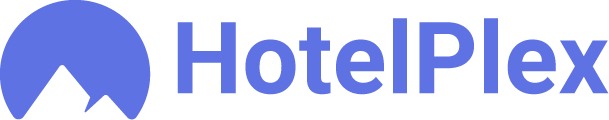
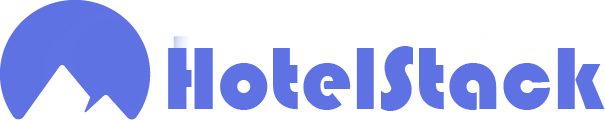
Brand name changed

diff --git a/public/js/app.js b/public/js/app.js
@@ -1899,6 +1899,32 @@ module.exports = {
 
 /***/ }),
 
+/***/ "./node_modules/babel-loader/lib/index.js?!./node_modules/vue-loader/lib/index.js?!./resources/js/components/Reservations.vue?vue&type=script&lang=js&":
+/*!***********************************************************************************************************************************************************************!*\
+  !*** ./node_modules/babel-loader/lib??ref--4-0!./node_modules/vue-loader/lib??vue-loader-options!./resources/js/components/Reservations.vue?vue&type=script&lang=js& ***!
+  \***********************************************************************************************************************************************************************/
+/*! exports provided: default */
+/***/ (function(module, __webpack_exports__, __webpack_require__) {
+
+"use strict";
+__webpack_require__.r(__webpack_exports__);
+//
+//
+//
+//
+//
+//
+/* harmony default export */ __webpack_exports__["default"] = ({
+  data: {
+    guest: "Vinyas"
+  },
+  mounted: function mounted() {
+    console.log("Component mounted.");
+  }
+});
+
+/***/ }),
+
 /***/ "./node_modules/bootstrap/dist/js/bootstrap.js":
 /*!*****************************************************!*\
   !*** ./node_modules/bootstrap/dist/js/bootstrap.js ***!
@@ -37254,6 +37280,137 @@ exports.clearImmediate = (typeof self !== "undefined" && self.clearImmediate) ||
 
 /***/ }),
 
+/***/ "./node_modules/vue-loader/lib/loaders/templateLoader.js?!./node_modules/vue-loader/lib/index.js?!./resources/js/components/Reservations.vue?vue&type=template&id=073d82dc&":
+/*!***************************************************************************************************************************************************************************************************************!*\
+  !*** ./node_modules/vue-loader/lib/loaders/templateLoader.js??vue-loader-options!./node_modules/vue-loader/lib??vue-loader-options!./resources/js/components/Reservations.vue?vue&type=template&id=073d82dc& ***!
+  \***************************************************************************************************************************************************************************************************************/
+/*! exports provided: render, staticRenderFns */
+/***/ (function(module, __webpack_exports__, __webpack_require__) {
+
+"use strict";
+__webpack_require__.r(__webpack_exports__);
+/* harmony export (binding) */ __webpack_require__.d(__webpack_exports__, "render", function() { return render; });
+/* harmony export (binding) */ __webpack_require__.d(__webpack_exports__, "staticRenderFns", function() { return staticRenderFns; });
+var render = function() {
+  var _vm = this
+  var _h = _vm.$createElement
+  var _c = _vm._self._c || _h
+  return _c("div", [_c("h2", [_vm._v(_vm._s(_vm.guest))])])
+}
+var staticRenderFns = []
+render._withStripped = true
+
+
+
+/***/ }),
+
+/***/ "./node_modules/vue-loader/lib/runtime/componentNormalizer.js":
+/*!********************************************************************!*\
+  !*** ./node_modules/vue-loader/lib/runtime/componentNormalizer.js ***!
+  \********************************************************************/
+/*! exports provided: default */
+/***/ (function(module, __webpack_exports__, __webpack_require__) {
+
+"use strict";
+__webpack_require__.r(__webpack_exports__);
+/* harmony export (binding) */ __webpack_require__.d(__webpack_exports__, "default", function() { return normalizeComponent; });
+/* globals __VUE_SSR_CONTEXT__ */
+
+// IMPORTANT: Do NOT use ES2015 features in this file (except for modules).
+// This module is a runtime utility for cleaner component module output and will
+// be included in the final webpack user bundle.
+
+function normalizeComponent (
+  scriptExports,
+  render,
+  staticRenderFns,
+  functionalTemplate,
+  injectStyles,
+  scopeId,
+  moduleIdentifier, /* server only */
+  shadowMode /* vue-cli only */
+) {
+  // Vue.extend constructor export interop
+  var options = typeof scriptExports === 'function'
+    ? scriptExports.options
+    : scriptExports
+
+  // render functions
+  if (render) {
+    options.render = render
+    options.staticRenderFns = staticRenderFns
+    options._compiled = true
+  }
+
+  // functional template
+  if (functionalTemplate) {
+    options.functional = true
+  }
+
+  // scopedId
+  if (scopeId) {
+    options._scopeId = 'data-v-' + scopeId
+  }
+
+  var hook
+  if (moduleIdentifier) { // server build
+    hook = function (context) {
+      // 2.3 injection
+      context =
+        context || // cached call
+        (this.$vnode && this.$vnode.ssrContext) || // stateful
+        (this.parent && this.parent.$vnode && this.parent.$vnode.ssrContext) // functional
+      // 2.2 with runInNewContext: true
+      if (!context && typeof __VUE_SSR_CONTEXT__ !== 'undefined') {
+        context = __VUE_SSR_CONTEXT__
+      }
+      // inject component styles
+      if (injectStyles) {
+        injectStyles.call(this, context)
+      }
+      // register component module identifier for async chunk inferrence
+      if (context && context._registeredComponents) {
+        context._registeredComponents.add(moduleIdentifier)
+      }
+    }
+    // used by ssr in case component is cached and beforeCreate
+    // never gets called
+    options._ssrRegister = hook
+  } else if (injectStyles) {
+    hook = shadowMode
+      ? function () { injectStyles.call(this, this.$root.$options.shadowRoot) }
+      : injectStyles
+  }
+
+  if (hook) {
+    if (options.functional) {
+      // for template-only hot-reload because in that case the render fn doesn't
+      // go through the normalizer
+      options._injectStyles = hook
+      // register for functional component in vue file
+      var originalRender = options.render
+      options.render = function renderWithStyleInjection (h, context) {
+        hook.call(context)
+        return originalRender(h, context)
+      }
+    } else {
+      // inject component registration as beforeCreate hook
+      var existing = options.beforeCreate
+      options.beforeCreate = existing
+        ? [].concat(existing, hook)
+        : [hook]
+    }
+  }
+
+  return {
+    exports: scriptExports,
+    options: options
+  }
+}
+
+
+/***/ }),
+
 /***/ "./node_modules/vue/dist/vue.common.dev.js":
 /*!*************************************************!*\
   !*** ./node_modules/vue/dist/vue.common.dev.js ***!
@@ -49328,19 +49485,20 @@ window.Vue = __webpack_require__(/*! vue */ "./node_modules/vue/dist/vue.common.
  */
 // const files = require.context('./', true, /\.vue$/i)
 // files.keys().map(key => Vue.component(key.split('/').pop().split('.')[0], files(key).default))
-// Vue.component("reservations", require("./components/Reservations.vue").default);
 
+Vue.component("Reservations", __webpack_require__(/*! ./components/Reservations.vue */ "./resources/js/components/Reservations.vue"));
 /**
  * Next, we will create a fresh Vue application instance and attach it to
  * the page. Then, you may begin adding components to this application
  * or customize the JavaScript scaffolding to fit your unique needs.
  */
-// const app = new Vue({
-//     el: "#app",
-//     data: {
-//         guest: "vINYAS"
-//     }
-// });
+
+var app = new Vue({
+  el: "#panel",
+  data: {
+    guest: "vINYAS"
+  }
+});
 
 /***/ }),
 
@@ -49386,6 +49544,75 @@ window.axios.defaults.headers.common['X-Requested-With'] = 'XMLHttpRequest';
 //     cluster: process.env.MIX_PUSHER_APP_CLUSTER,
 //     encrypted: true
 // });
+
+/***/ }),
+
+/***/ "./resources/js/components/Reservations.vue":
+/*!**************************************************!*\
+  !*** ./resources/js/components/Reservations.vue ***!
+  \**************************************************/
+/*! exports provided: default */
+/***/ (function(module, __webpack_exports__, __webpack_require__) {
+
+"use strict";
+__webpack_require__.r(__webpack_exports__);
+/* harmony import */ var _Reservations_vue_vue_type_template_id_073d82dc___WEBPACK_IMPORTED_MODULE_0__ = __webpack_require__(/*! ./Reservations.vue?vue&type=template&id=073d82dc& */ "./resources/js/components/Reservations.vue?vue&type=template&id=073d82dc&");
+/* harmony import */ var _Reservations_vue_vue_type_script_lang_js___WEBPACK_IMPORTED_MODULE_1__ = __webpack_require__(/*! ./Reservations.vue?vue&type=script&lang=js& */ "./resources/js/components/Reservations.vue?vue&type=script&lang=js&");
+/* empty/unused harmony star reexport *//* harmony import */ var _node_modules_vue_loader_lib_runtime_componentNormalizer_js__WEBPACK_IMPORTED_MODULE_2__ = __webpack_require__(/*! ../../../node_modules/vue-loader/lib/runtime/componentNormalizer.js */ "./node_modules/vue-loader/lib/runtime/componentNormalizer.js");
+
+
+
+
+
+/* normalize component */
+
+var component = Object(_node_modules_vue_loader_lib_runtime_componentNormalizer_js__WEBPACK_IMPORTED_MODULE_2__["default"])(
+  _Reservations_vue_vue_type_script_lang_js___WEBPACK_IMPORTED_MODULE_1__["default"],
+  _Reservations_vue_vue_type_template_id_073d82dc___WEBPACK_IMPORTED_MODULE_0__["render"],
+  _Reservations_vue_vue_type_template_id_073d82dc___WEBPACK_IMPORTED_MODULE_0__["staticRenderFns"],
+  false,
+  null,
+  null,
+  null
+  
+)
+
+/* hot reload */
+if (false) { var api; }
+component.options.__file = "resources/js/components/Reservations.vue"
+/* harmony default export */ __webpack_exports__["default"] = (component.exports);
+
+/***/ }),
+
+/***/ "./resources/js/components/Reservations.vue?vue&type=script&lang=js&":
+/*!***************************************************************************!*\
+  !*** ./resources/js/components/Reservations.vue?vue&type=script&lang=js& ***!
+  \***************************************************************************/
+/*! exports provided: default */
+/***/ (function(module, __webpack_exports__, __webpack_require__) {
+
+"use strict";
+__webpack_require__.r(__webpack_exports__);
+/* harmony import */ var _node_modules_babel_loader_lib_index_js_ref_4_0_node_modules_vue_loader_lib_index_js_vue_loader_options_Reservations_vue_vue_type_script_lang_js___WEBPACK_IMPORTED_MODULE_0__ = __webpack_require__(/*! -!../../../node_modules/babel-loader/lib??ref--4-0!../../../node_modules/vue-loader/lib??vue-loader-options!./Reservations.vue?vue&type=script&lang=js& */ "./node_modules/babel-loader/lib/index.js?!./node_modules/vue-loader/lib/index.js?!./resources/js/components/Reservations.vue?vue&type=script&lang=js&");
+/* empty/unused harmony star reexport */ /* harmony default export */ __webpack_exports__["default"] = (_node_modules_babel_loader_lib_index_js_ref_4_0_node_modules_vue_loader_lib_index_js_vue_loader_options_Reservations_vue_vue_type_script_lang_js___WEBPACK_IMPORTED_MODULE_0__["default"]); 
+
+/***/ }),
+
+/***/ "./resources/js/components/Reservations.vue?vue&type=template&id=073d82dc&":
+/*!*********************************************************************************!*\
+  !*** ./resources/js/components/Reservations.vue?vue&type=template&id=073d82dc& ***!
+  \*********************************************************************************/
+/*! exports provided: render, staticRenderFns */
+/***/ (function(module, __webpack_exports__, __webpack_require__) {
+
+"use strict";
+__webpack_require__.r(__webpack_exports__);
+/* harmony import */ var _node_modules_vue_loader_lib_loaders_templateLoader_js_vue_loader_options_node_modules_vue_loader_lib_index_js_vue_loader_options_Reservations_vue_vue_type_template_id_073d82dc___WEBPACK_IMPORTED_MODULE_0__ = __webpack_require__(/*! -!../../../node_modules/vue-loader/lib/loaders/templateLoader.js??vue-loader-options!../../../node_modules/vue-loader/lib??vue-loader-options!./Reservations.vue?vue&type=template&id=073d82dc& */ "./node_modules/vue-loader/lib/loaders/templateLoader.js?!./node_modules/vue-loader/lib/index.js?!./resources/js/components/Reservations.vue?vue&type=template&id=073d82dc&");
+/* harmony reexport (safe) */ __webpack_require__.d(__webpack_exports__, "render", function() { return _node_modules_vue_loader_lib_loaders_templateLoader_js_vue_loader_options_node_modules_vue_loader_lib_index_js_vue_loader_options_Reservations_vue_vue_type_template_id_073d82dc___WEBPACK_IMPORTED_MODULE_0__["render"]; });
+
+/* harmony reexport (safe) */ __webpack_require__.d(__webpack_exports__, "staticRenderFns", function() { return _node_modules_vue_loader_lib_loaders_templateLoader_js_vue_loader_options_node_modules_vue_loader_lib_index_js_vue_loader_options_Reservations_vue_vue_type_template_id_073d82dc___WEBPACK_IMPORTED_MODULE_0__["staticRenderFns"]; });
+
+
 
 /***/ }),
 

diff --git a/resources/js/app.js b/resources/js/app.js
@@ -6,7 +6,7 @@
 
 require("./bootstrap");
 
-window.Vue = require("vue");
+// window.Vue = require("vue");
 
 /**
  * The following block of code may be used to automatically register your
@@ -19,7 +19,7 @@ window.Vue = require("vue");
 // const files = require.context('./', true, /\.vue$/i)
 // files.keys().map(key => Vue.component(key.split('/').pop().split('.')[0], files(key).default))
 
-// Vue.component("reservations", require("./components/Reservations.vue").default);
+// Vue.component("Reservations", require("./components/Reservations.vue"));
 
 /**
  * Next, we will create a fresh Vue application instance and attach it to
@@ -28,7 +28,7 @@ window.Vue = require("vue");
  */
 
 // const app = new Vue({
-//     el: "#app",
+//     el: "#panel",
 //     data: {
 //         guest: "vINYAS"
 //     }

diff --git a/resources/js/components/SelectRoom.vue b/resources/js/components/SelectRoom.vue
@@ -1,0 +1,21 @@
+<template>
+  <div>
+    <h1>
+      {{message}}
+      <slot></slot>
+    </h1>
+  </div>
+</template>
+
+<script>
+export default {
+  data() {
+    return {
+      message: "Hello world"
+    };
+  }
+};
+</script>
+
+<style>
+</style>

diff --git a/resources/views/backend/admin/reservations/select_room.blade.php b/resources/views/backend/admin/reservations/select_room.blade.php
@@ -11,7 +11,6 @@
         </div>
 
 
-
         @if (Session::has('success'))
 
         <div class="alert alert-success mt-2">{{ Session::get('success') }}</div>
@@ -139,7 +138,9 @@
                     <td class="price-per-night p-0">
                         <table class="table table-sm borderless mb-0 ">
                             <thead class="font-weight-bold">
+                                <div id="app">
 
+                                </div>
                                 <tr>
                                     <td class="sl">#</td>
                                     <td>Room type</td>
@@ -155,11 +156,12 @@
                                     <td class="text-muted">{{$roomType->title}}</td>
                                     <td>
                                         <div>
+
                                             @if (count($roomType->rooms) > 0)
                                             @foreach ($roomType->rooms as $rooms)
-                                            <a class="btn btn-sm btn-tsk">
-                                                {{ $rooms->number}}
-                                            </a>
+
+                                            <button :class="classname" id="custom{{ $rooms->number}}"
+                                                @click.stop.prevent="selectRoom">{{ $rooms->number}}</button>
                                             @endforeach
                                             @endif
                                         </div>
@@ -205,5 +207,9 @@
     </div>
 </div>
 
+
+@endsection
+
+@section('scripts')
 
 @endsection
